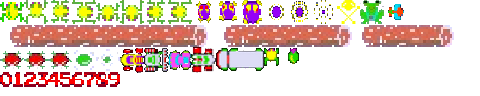
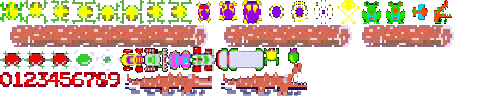
Added graphic for "Happy" frog, this displays when all 5 frogs have been rescued before going to the next level.
Added graphics for the gator in the goal area and the gator "log".

Added code to manage the new gator in the goal images appropriatly and
fixed the offset for the fly to compensate for the happy frog.

Changed region(s): [[0.25, 0.6562, 0.6562, 1.0], [0.75, 0.0, 0.9688, 0.25]]

diff --git a/src/froggix.c b/src/froggix.c
@@ -25,7 +25,7 @@
 /* 
  * Set some basic definitions
  */
-#define VER "$Id: froggix.c,v 1.5 2009-04-11 13:01:54 nick Exp $"
+#define VER "$Id: froggix.c,v 1.6 2009-04-22 03:54:22 nick Exp $"
 #define TITLE "Froggix"
 #define SCREEN_WIDTH 640
 #define SCREEN_HEIGHT 480
@@ -1287,16 +1287,17 @@ void drawGoals( void ) {
 			drawImage( gfx, FRAME * 15, 0, FRAME, FRAME, 
 				   screen, goals[i].x + 13, goals[i].y + 5, 255 );
 		if( goals[i].fly ) {
-			drawImage( gfx, FRAME * 16, 0, FRAME, FRAME, 
+			drawImage( gfx, FRAME * 17, 0, FRAME, FRAME, 
 				   screen, goals[i].x + 13, goals[i].y + 5, 255 );
 		}
 		if( goals[i].gator ) {
-			int frame = 17;
+			int frame = 18;
+			int diff = 10;
 
 			if ( goals[i].gator > ( ( int ) GATOR_MAX_TIME / 2 ) )
-				frame++;
+				diff = 0;
 			
-			drawImage( gfx, FRAME * frame, 0, FRAME, FRAME, 
+			drawImage( gfx, FRAME * frame + diff, 0, FRAME, FRAME, 
 				   screen, goals[i].x + 13, goals[i].y + 5, 255 );
 		}		
 	}
